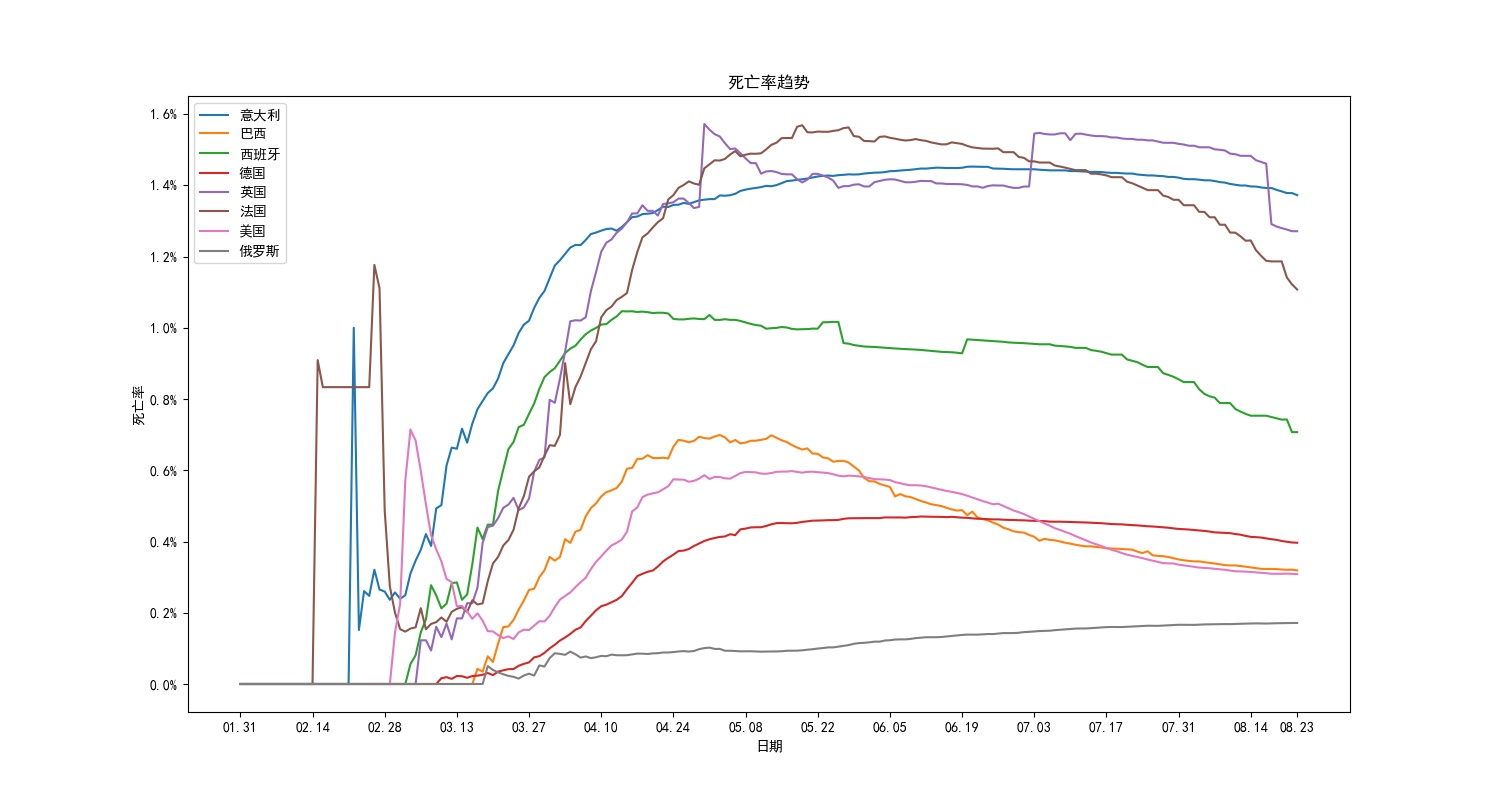
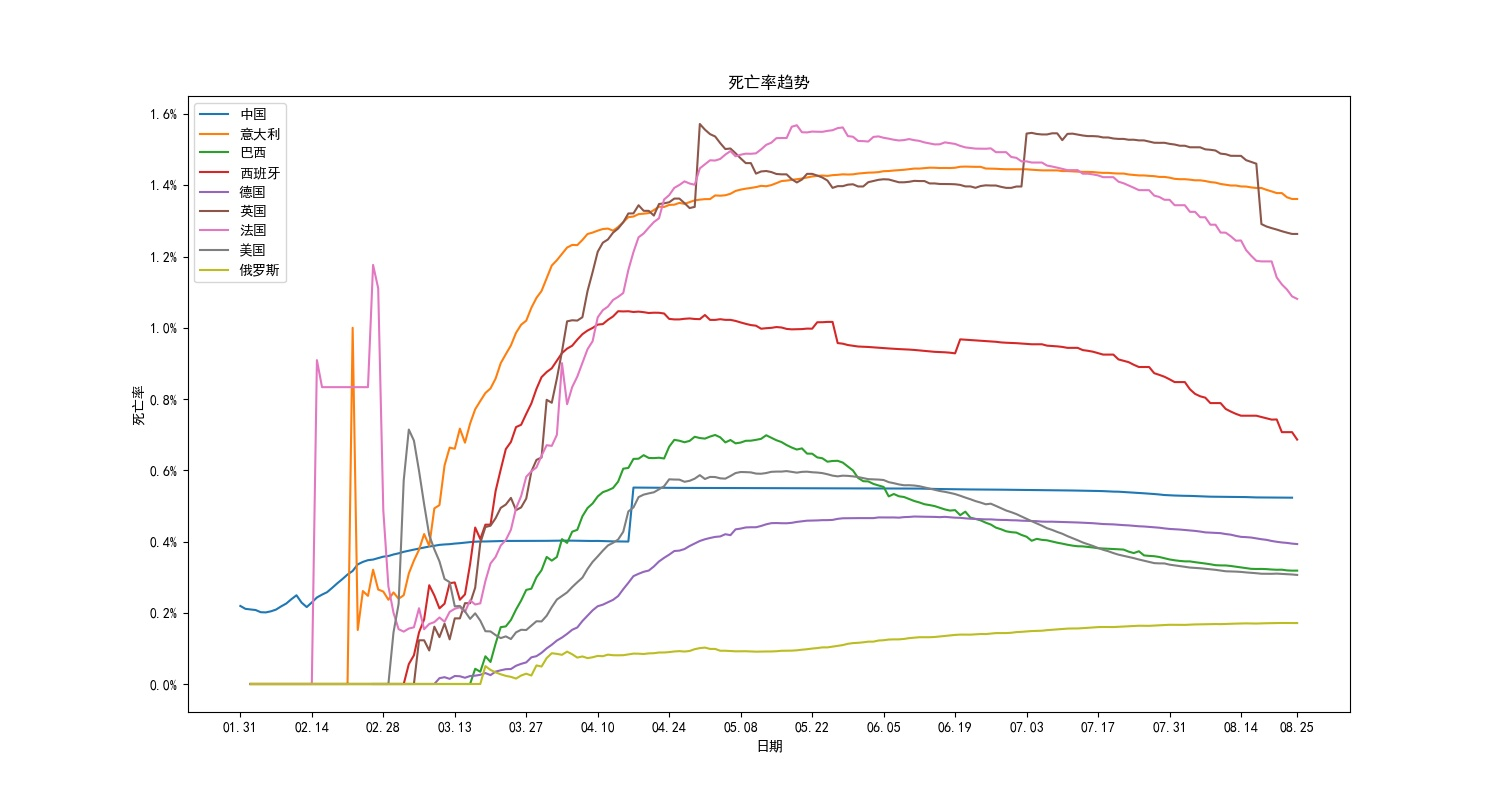
2020 8.25

diff --git a/easy project/疫情+可视化/img.py b/easy project/疫情+可视化/img.py
@@ -9,6 +9,11 @@ def get_data():
     headers = {
         'User-Agent': 'Mozilla/5.0 (Windows NT 10.0; Win64; x64) AppleWebKit/537.36 (KHTML, like Gecko) Chrome/84.0.4147.89 Safari/537.36',
     }
+    data = []
+    url = 'https://api.inews.qq.com/newsqa/v1/query/inner/publish/modules/list?modules=chinaDayList,chinaDayAddList,cityStatis,nowConfirmStatis,provinceCompare'
+    a = requests.get(url=url, headers=headers).text
+    i = json.loads(a)["data"]["chinaDayList"]
+    data.append(i)
     country = ['意大利',
                '巴西',
                '西班牙',
@@ -17,7 +22,6 @@ def get_data():
                '法国',
                '美国',
                '俄罗斯']
-    data = []
     for c in country:
         url = f'https://api.inews.qq.com/newsqa/v1/automation/foreign/daily/list?country={c}&'
         a = requests.get(url=url, headers=headers).text
@@ -26,7 +30,8 @@ def get_data():
 
 
 def img_confirm(data):
-    country = ['意大利',
+    country = ['中国',
+               '意大利',
                '巴西',
                '西班牙',
                '德国',
@@ -41,17 +46,21 @@ def img_confirm(data):
         x = [i['date'] for i in data[index]]
         y = [i['confirm'] for i in data[index]]
         if len(x) > 206:
-            x = x[len(x)-206:]
-            y = y[len(y)-206:]
+            if c == '中国':
+                x = x[len(x)-207:]
+                y = y[len(y)-207:]
+            else:
+                x = x[len(x)-206:]
+                y = y[len(y)-206:]
         plt.plot(x, y, label=c)
         index += 1
     plt.legend()
-    x = [i['date'] for i in data[0]]
+    x = [i['date'] for i in data[1]]
     my_x_ticks = [x[i] for i in range(0, len(x), 14)]+[x[-1]]
     my_y_ticks = [i for i in range(0, 6000001, 1000000)]
     plt.xticks(my_x_ticks)
     plt.yticks(my_y_ticks)
-
+    plt.xticks(rotation=45)
     plt.xlabel("日期")
     plt.ylabel(f"人数(百万)")
     plt.title(f"感染趋势")
@@ -60,7 +69,8 @@ def img_confirm(data):
 
 
 def img_heal(data):
-    country = ['意大利',
+    country = ['中国',
+               '意大利',
                '巴西',
                '西班牙',
                '德国',
@@ -75,12 +85,16 @@ def img_heal(data):
         x = [i['date'] for i in data[index]]
         y = [i["heal"] for i in data[index]]
         if len(x) > 206:
-            x = x[len(x)-206:]
-            y = y[len(y)-206:]
+            if c == '中国':
+                x = x[len(x)-207:]
+                y = y[len(y)-207:]
+            else:
+                x = x[len(x)-206:]
+                y = y[len(y)-206:]
         plt.plot(x, y, label=c)
         index += 1
     plt.legend()
-    x = [i['date'] for i in data[0]]
+    x = [i['date'] for i in data[1]]
     my_x_ticks = [x[i] for i in range(0, len(x), 14)]+[x[-1]]
     my_y_ticks = [i for i in range(0, 4000001, 1000000)]
     plt.xticks(my_x_ticks)
@@ -94,7 +108,8 @@ def img_heal(data):
 
 
 def img_dead(data):
-    country = ['意大利',
+    country = ['中国',
+               '意大利',
                '巴西',
                '西班牙',
                '德国',
@@ -109,12 +124,16 @@ def img_dead(data):
         x = [i['date'] for i in data[index]]
         y = [i["dead"] for i in data[index]]
         if len(x) > 206:
-            x = x[len(x)-206:]
-            y = y[len(y)-206:]
+            if c == '中国':
+                x = x[len(x)-207:]
+                y = y[len(y)-207:]
+            else:
+                x = x[len(x)-206:]
+                y = y[len(y)-206:]
         plt.plot(x, y, label=c)
         index += 1
     plt.legend()
-    x = [i['date'] for i in data[0]]
+    x = [i['date'] for i in data[1]]
     my_x_ticks = [x[i] for i in range(0, len(x), 14)]+[x[-1]]
     my_y_ticks = [i for i in range(0, 200001, 20000)]
     plt.xticks(my_x_ticks)
@@ -128,7 +147,8 @@ def img_dead(data):
 
 
 def img_heal_ratio(data):
-    country = ['意大利',
+    country = ['中国',
+               '意大利',
                '巴西',
                '西班牙',
                '德国',
@@ -143,12 +163,16 @@ def img_heal_ratio(data):
         x = [i['date'] for i in data[index]]
         y = [i['heal']/i['confirm'] for i in data[index]]
         if len(x) > 206:
-            x = x[len(x)-206:]
-            y = y[len(y)-206:]
+            if c == '中国':
+                x = x[len(x)-207:]
+                y = y[len(y)-207:]
+            else:
+                x = x[len(x)-206:]
+                y = y[len(y)-206:]
         plt.plot(x, y, label=c)
         index += 1
     plt.legend()
-    x = [i['date'] for i in data[0]]
+    x = [i['date'] for i in data[1]]
     my_x_ticks = [x[i] for i in range(0, len(x), 14)]+[x[-1]]
     plt.xticks(my_x_ticks)
 
@@ -164,7 +188,8 @@ def img_heal_ratio(data):
 
 
 def img_dead_ratio(data):
-    country = ['意大利',
+    country = ['中国',
+               '意大利',
                '巴西',
                '西班牙',
                '德国',
@@ -179,12 +204,16 @@ def img_dead_ratio(data):
         x = [i['date'] for i in data[index]]
         y = [i['dead']/i['confirm'] for i in data[index]]
         if len(x) > 206:
-            x = x[len(x)-206:]
-            y = y[len(y)-206:]
+            if c == '中国':
+                x = x[len(x)-207:]
+                y = y[len(y)-207:]
+            else:
+                x = x[len(x)-206:]
+                y = y[len(y)-206:]
         plt.plot(x, y, label=c)
         index += 1
     plt.legend()
-    x = [i['date'] for i in data[0]]
+    x = [i['date'] for i in data[1]]
     my_x_ticks = [x[i] for i in range(0, len(x), 14)]+[x[-1]]
     plt.xticks(my_x_ticks)
 
@@ -197,6 +226,7 @@ def img_dead_ratio(data):
     plt.title(f"死亡率趋势")
     plt.savefig(f'死亡率趋势.jpg')
     plt.show()
+
 
 if __name__ == "__main__":
     data = get_data()

diff --git a/easy project/疫情+可视化/crawl.py b/easy project/疫情+可视化/crawl.py
@@ -2,6 +2,23 @@ import requests
 import json
 import openpyxl
 
+
+def get_china():
+    headers = {
+        'User-Agent': 'Mozilla/5.0 (Windows NT 10.0; Win64; x64) AppleWebKit/537.36 (KHTML, like Gecko) Chrome/84.0.4147.89 Safari/537.36',
+    }
+    url = 'https://api.inews.qq.com/newsqa/v1/query/inner/publish/modules/list?modules=chinaDayList,chinaDayAddList,cityStatis,nowConfirmStatis,provinceCompare'
+    a = requests.get(url=url, headers=headers).text
+    i = json.loads(a)["data"]["chinaDayList"][-1]
+    data = ['中国',
+            i["confirm"],
+            i["heal"],
+            round(i["heal"]/i["confirm"], 2),
+            i["dead"],
+            round(i["dead"]/i["confirm"], 4)]
+    return data
+
+
 headers = {
     'User-Agent': 'Mozilla/5.0 (Windows NT 10.0; Win64; x64) AppleWebKit/537.36 (KHTML, like Gecko) Chrome/84.0.4147.89 Safari/537.36',
 }
@@ -18,6 +35,7 @@ data = [[i["name"],
 wb = openpyxl.Workbook()
 ws = wb.active
 ws.append(['国家', '累计感染', '治愈', '治愈率', '死亡', '死亡率'])
+ws.append(get_china())
 for row in data:
     ws.append(row)
 wb.save('country_data.xlsx')
